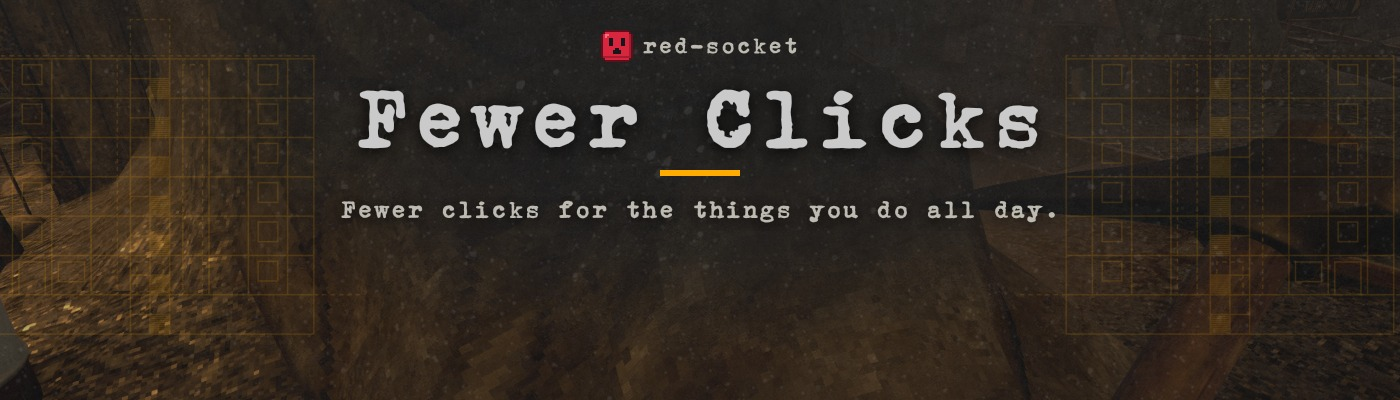
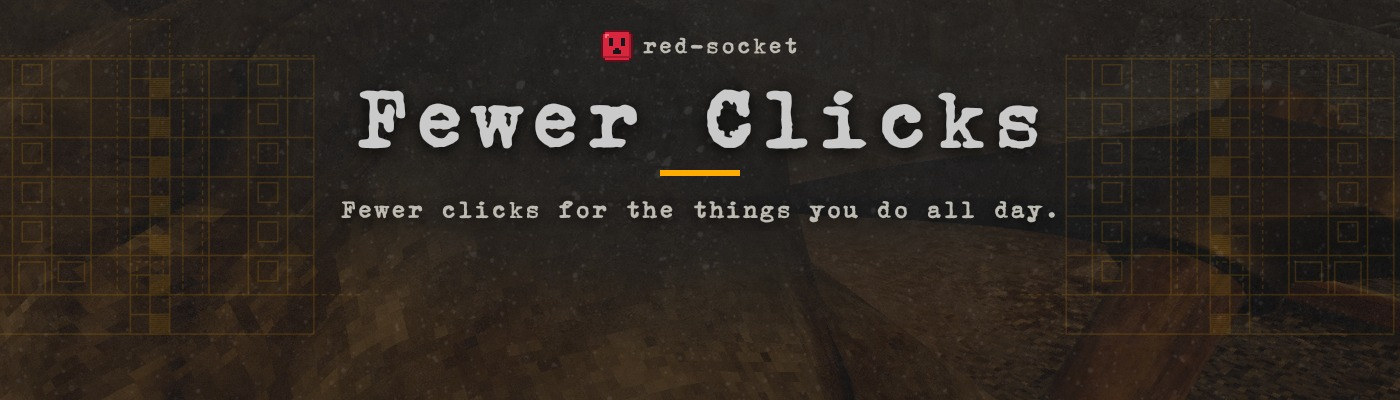
docs(FewerClicks): key shot cropped to the right so the pickaxe shows

diff --git a/mods/FewerClicks/art/NOTES.md b/mods/FewerClicks/art/NOTES.md
@@ -20,7 +20,7 @@ Tagline: "Fewer clicks for the things you do all day." Key shot (header and thum
 
 | File | Derived from |
 |---|---|
-| `header.jpg`, `thumbnail.jpg` | `fc-key.png`: `Screenshot From 2026-11-16 03-28-12.png` (pickaxe at a rock face in the mines, HUD hidden) brightened with `magick in.png -level 0%,50%,1.15 fc-key.png`, because the mine is too dark once the template darkens it |
+| `header.jpg`, `thumbnail.jpg` | `fc-key.png`: `Screenshot From 2026-11-16 03-28-12.png` (pickaxe at a rock face in the mines, HUD hidden), cropped to its right side and brightened with `magick in.png -crop 1791x1440+769+0 +repage -level 0%,50%,1.15 fc-key.png`. The crop keeps the pickaxe (right edge of the shot) inside the thumbnail, which otherwise shows only the middle of the image; the brightening is needed because the mine is too dark once the template darkens it |
 | `gallery-01.jpg` | `fc-topup-before.png`, copy of `Screenshot From 2026-11-15 21-43-07.png` |
 | `gallery-02.jpg` | `fc-topup.png`, copy of `Screenshot From 2026-11-15 21-43-17.png` |
 | `gallery-03.jpg` | `fc-swing.png`, copy of `Screenshot From 2026-11-15 21-47-23.png` |
